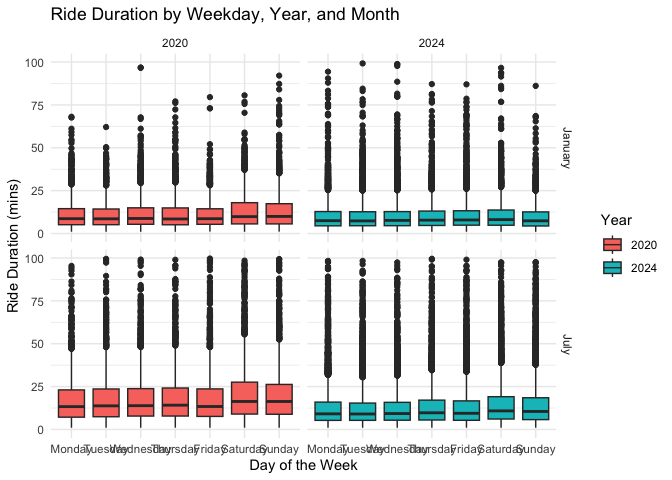
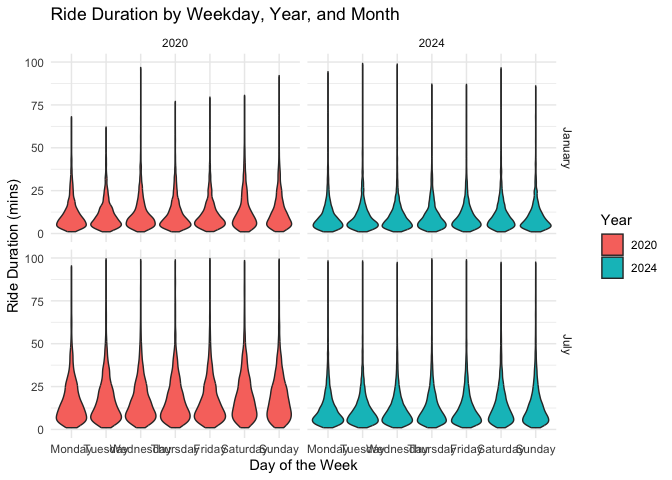
Some figures update from boxplots into violinplot for a better fit with the outliers.

diff --git a/P8105.md b/P8105.md
@@ -208,7 +208,7 @@ snowfall_filtered <- noaa_clean %>%
   filter(snwd > 0 & snwd < 100)
 
 ggplot(snowfall_filtered, aes(x = factor(year), y = snwd)) +
-  geom_boxplot() +
+  geom_violin() +
   labs(title = "Distribution of Snowfall (0 < Snowfall < 100) by Year",
        x = "Year",
        y = "Snowfall (mm)") +
@@ -552,7 +552,7 @@ citi_bike_data <- citi_bike_data %>%
 
 # Create the plot
 ggplot(citi_bike_data, aes(x = weekdays, y = duration, fill = factor(year))) +
-  geom_boxplot(position = position_dodge(width = 0.8)) +  # Boxplots with side-by-side comparison
+  geom_violin() +  
   facet_grid(month ~ year) +  # Separate plots by month and year
   scale_y_continuous(limits = c(0, 100)) +  # Limit Y-axis to 0-100 mins
   labs(title = "Ride Duration by Weekday, Year, and Month",
@@ -563,7 +563,7 @@ ggplot(citi_bike_data, aes(x = weekdays, y = duration, fill = factor(year))) +
 ```
 
     ## Warning: Removed 373 rows containing non-finite outside the scale range
-    ## (`stat_boxplot()`).
+    ## (`stat_ydensity()`).
 
 ![](P8105_files/figure-gfm/unnamed-chunk-14-1.png)<!-- -->
 
